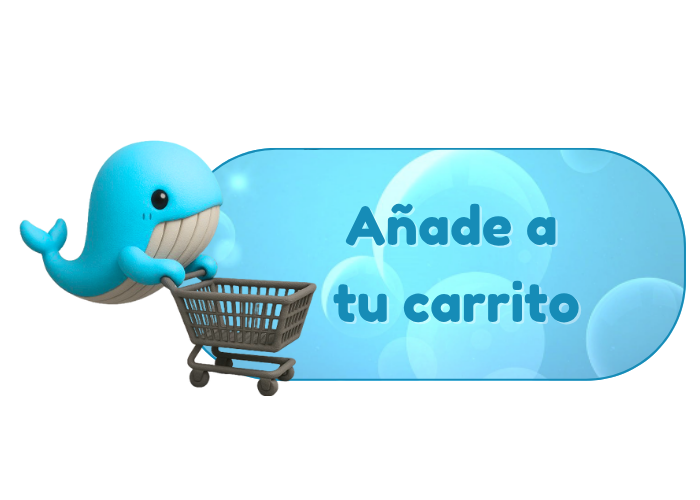
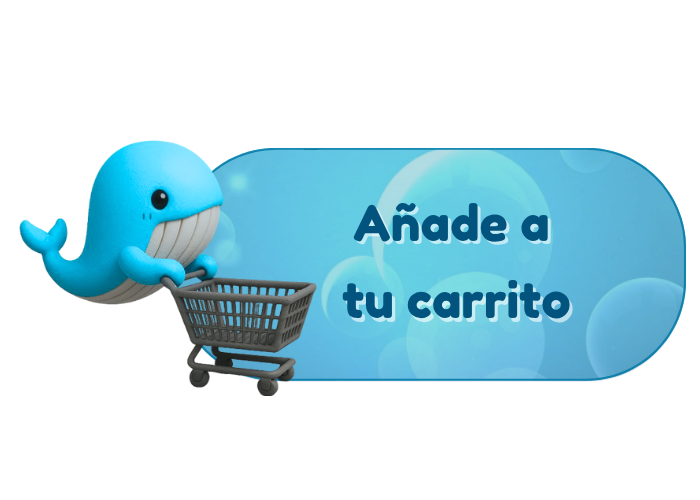
plantilla producto unico final

diff --git a/styles/style_productounico.css b/styles/style_productounico.css
@@ -34,31 +34,20 @@ main {
 /*CONTENEDOR GENERAL*/
 .producto-contenedor {
   position: relative;
-  border-radius: 5%;
+  border-radius: 50px;
   margin: 100px;
   margin-bottom: 0px;
-  height: 600px;
+  height: 613px;
   width: auto;
   display: flex;
-  align-items: flex-start;
+  align-items: center;
   z-index: 1;
-  background-color: transparent;
+  background-color: #e3f8fc;
+  /* background-color: #ffffffbd; */
   overflow: hidden;
   padding-left: 0;
+  box-shadow: 10px 15px 20px #6ca0ad;
 }
-
-/* .producto-contenedor::before {
-  content: "";
-  position: absolute;
-  top: 0; left: 0; right: 0; bottom: 0;
-  background-image: url('../assets/images/sadstatue.svg');
-  background-size: cover;
-  background-position: center;
-  background-repeat: no-repeat;
-  background-attachment: fixed;
-  opacity: 0.5;
-  z-index: -1;
-} */
 
 /* IZQ */
 #nombre-producto {
@@ -66,7 +55,7 @@ main {
   font-family: 'Fredoka';
   font-size: 40PX;
   font-weight: 900;
-  margin-bottom: 20px;
+  margin-bottom: 40px;
   margin-top: 0;
   color: #02537d;
 }
@@ -78,8 +67,8 @@ main {
   justify-content: flex-start;
   align-items: center;
   height: 100%;
+  width: 100%;
   padding: 20px;
-  margin: 50px;
   margin-top: 0px;
 }
 
@@ -88,17 +77,18 @@ main {
   display: flex;
   flex-direction: column;
   align-items: center;
-  width: 500px;
-  height: 500px;
+  width: 90%;
+  height: 90%;
   padding: 0;
+  margin: 0px;
 }
 
 .producto {
-  width: 20rem;
+  width: 30rem;
   height: auto;
-  position: absolute;
+  position: relative;
   top: 50%;
-  left: 50%;
+  left: 40%;
   transform: translate(-50%, -60%);
   z-index: 2;
   animation: dance 4s ease-in-out infinite;
@@ -119,13 +109,13 @@ main {
   }
 }
 
-.plataforma {
+/* .plataforma {
   display: block;
   width: 500px;
   z-index: 1;
   position: relative;
   bottom: 30%;
-}
+} */
 
 
 /* DER */
@@ -134,9 +124,28 @@ main {
   display: flex;
   flex-direction: column;
   align-items: center;
-  background-color: #6ebadb36;
-  border-radius: 20px;
+  border-radius: 50px;
   height: 610px;
+  position: relative;
+  border: #0184A9;
+  border-style: dotted;
+  border-width: 7px;
+}
+
+.producto-info::before {
+  content: "";
+  position: absolute;
+  top: 0;
+  left: 0;
+  width: 100%;
+  height: 100%;
+  background-image: url('../assets/images/sadstatue.svg');
+  background-size: fit-content;
+  background-position: center;
+  background-repeat: no-repeat;
+  z-index: -1;
+  opacity: 0.3;
+  border-radius: 50px;
 }
 
 /* EN QUÉ TE AYUDA */
@@ -147,23 +156,23 @@ main {
   flex-direction: column;
   justify-content: center;
   align-items: center;
-  width: 100%;
-  margin-top: 20%;
+  width: cover;
+  margin-top: 10%;
 }
 
 .help-card {
   font-family: 'nunito';
   background-color: #e3f8fc;
-  border-radius: 16px;
-  box-shadow: 0 4px 12px rgba(0, 0, 0, 0.08);
+  background-color: #ffffffbd;
+  border-radius: 50px;
+  box-shadow: 10px 10px 20px #6ca0ad;
   font-size: 14px;
-  width: 90%;
-  max-width: 700px;
+  width: 88%;
   height: auto;
-  color: #1a3e48;
+  color: #02537d;
   padding: 2%;
   z-index: 1;
-  margin-top: -100px;
+  margin-top: -130px;
   display: flex;
   align-items: center;
   gap: 20px;
@@ -180,8 +189,8 @@ main {
   position: relative;
   top: 0;
   left: 0;
-  width: 12rem;
-  height: 12rem;
+  width: 14rem;
+  height: 14rem;
   z-index: 3;
 }
 
@@ -194,6 +203,7 @@ main {
 #texto-derecha p {
   margin: 0;
   line-height: 1.4;
+  font-size: 18px;
 }
 
 #help-h2 {
@@ -210,24 +220,43 @@ main {
 }
 
 
-/* PRECIO */
+/* ESPECIFICACIONES */
 .precio-carrito {
   display: flex;
   flex-direction: column;
   align-items: center;
-  margin-top: 50px;
-  font-family: 'Nunito';
-  color: #02537d;
+  margin-top: 3%;
+  padding: 0px;
+  margin-bottom: 0px;
 }
 
 
-#precio {
-  font-size: 35px;
-  font-weight: 800;
-  text-align: center;
+.headers-infoprod{
   color: #02537d;
+  font-weight: 900;
+  font-family: 'fredoka';
+  font-size: 30px;
+  margin-bottom: 0.5px;
 }
 
+.textos-infoprod{
+  color: #0184A9;
+  font-weight: 500;
+  font-family: 'nunito';
+  font-size: 23px;
+  margin-top: 0px;
+  padding-top: 0px;
+}
+
+#medidas{
+  margin-bottom: 0px;
+  padding-bottom: 0px;
+}
+
+#hmedidas{
+  margin-bottom: 0px;
+  padding-bottom: 0px;
+}
 
 /*BOTONES*/
 
@@ -238,6 +267,8 @@ main {
   align-items: center;
   justify-content: center;
   gap: 40px;
+  margin-top: 0px;
+  padding-top: 0px;
 }
 
 
@@ -312,9 +343,10 @@ main {
   top: 55%;
   left: 63%;
   transform: translate(-50%, -50%);
-  color: #168cb7;
+  color: #035b87;
+  text-shadow:1px 1px 0 #ffffff76;
   font-weight: 1000;
-  font-size: 12px;
+  font-size: 12.5px;
   z-index: 2;
   pointer-events: none;
   font-family: 'Nunito';

diff --git a/HTML/productounico.html b/HTML/productounico.html
@@ -28,9 +28,29 @@
   <div class="producto-imagenes">
     <div class="container-imagen-producto">
          <h1 id="nombre-producto">NOMBRE DEL PRODUCTO</h1> <!--MODIFICABLE-->
-      <img src="../assets/images/plataformaproducto.png" alt="Plataforma" class="plataforma">
+<!--      <img src="../assets/images/plataformaproducto.png" alt="Plataforma" class="plataforma"> -->
       <img src="../assets/imgProductos/leve/leve2-plastilina.png" alt="Producto" class="producto"> <!--MODIFICABLE-->
-      
+  </div>
+</div>
+
+  <!-- DER -->
+
+  <div class="producto-info">
+    <!-- Especificaciones -->
+    <div class="precio-carrito">
+      <h2 class="headers-infoprod">Precio</h2> 
+      <p class="textos-infoprod">$50.000</p> <!--MODIFICABLE-->
+      <h2 class="headers-infoprod">Material</h2>
+      <p class="textos-infoprod">Plastilina</p>
+      <h2 class="headers-infoprod">Nivel de TEA</h2>
+      <p class="textos-infoprod">Leve</p>
+      <h2 class="headers-infoprod">Edad recomendada</h2>
+      <p class="textos-infoprod">6 años</p>
+      <h2 class="headers-infoprod" id="hmedidas">Medidas</h2>
+      <p class="textos-infoprod" id="medidas">5cmx5cm</p>
+    </div>
+
+          
       <section id="btns">
       <!-- btn CARRITO -->
       <button id="btn-agregarcarrito">
@@ -49,28 +69,16 @@
     </div>
   </div>
 
-  <!-- DER -->
-
-  <div class="producto-info">
-    <!-- PRECIO -->
-    <div class="precio-carrito">
-      <h2>Precio</h2> 
-      <div id="precio">$50.000</div> <!--MODIFICABLE-->
-    </div>
-
-    <div class="help-section">
+    <section class="help-section">
       <div class="help-card">
         <div id="imagen-izquierda">
         <img src="../assets/images/bluet-globo.png" alt="Burbuja diálogo" class="bluet-help">
         </div>
         <div id="texto-derecha">
-        <p>Lorem ipsum dolor sit amet consectetur adipiscing elit...</p> <!--MODIFICABLE-->
+        <p>TODA LA INFO DEL PRODUCTO</p> <!--MODIFICABLE-->
         </div>
-      </div>
-    </div>
-
-  </div>
-</div>
+        </div>
+      </section>
 
 <!-- SECCIÓN CARRUSEL -->
 
@@ -88,37 +96,31 @@
       <div>
         <img src="/assets/imgProductos/avanzado-clasificador-colores-formas.png" alt="Producto 1"> <!--MODIFICABLE-->
       </div>
-        <p>Título producto 1</p> <!--MODIFICABLE-->
     </swiper-slide>
     <swiper-slide>
       <div>
         <img src="/assets/imgProductos/leve-Cubos.png" alt="Producto 2"> <!--MODIFICABLE-->
       </div>
-        <p>Título producto 2</p> <!--MODIFICABLE-->
     </swiper-slide>
     <swiper-slide>
       <div>
         <img src="/assets/imgProductos/moderado-Gestos_1.png" alt="Producto 3"> <!--MODIFICABLE-->
       </div>
-      <p>Título producto 3</p> <!--MODIFICABLE-->
     </swiper-slide>
     <swiper-slide>
       <div>
         <img src="/assets/imgProductos/avanzado-pictogramas.png" alt="Producto 4"> <!--MODIFICABLE-->
       </div>
-      <p>Título producto 4</p> <!--MODIFICABLE-->
     </swiper-slide>
     <swiper-slide>
       <div>
         <img src="/assets/imgProductos/leve-Pista_de_canicas.png" alt="Producto 5"> <!--MODIFICABLE-->
       </div>
-        <p>Título producto 5</p> <!--MODIFICABLE-->
     </swiper-slide>
     <swiper-slide>
       <div>
         <img src="/assets/imgProductos/moderado-Exploding_K_1.png" alt="Producto 6"> <!--MODIFICABLE-->
       </div>
-      <p>Título producto 6</p> <!--MODIFICABLE-->
     </swiper-slide>
     
   </swiper-container>
